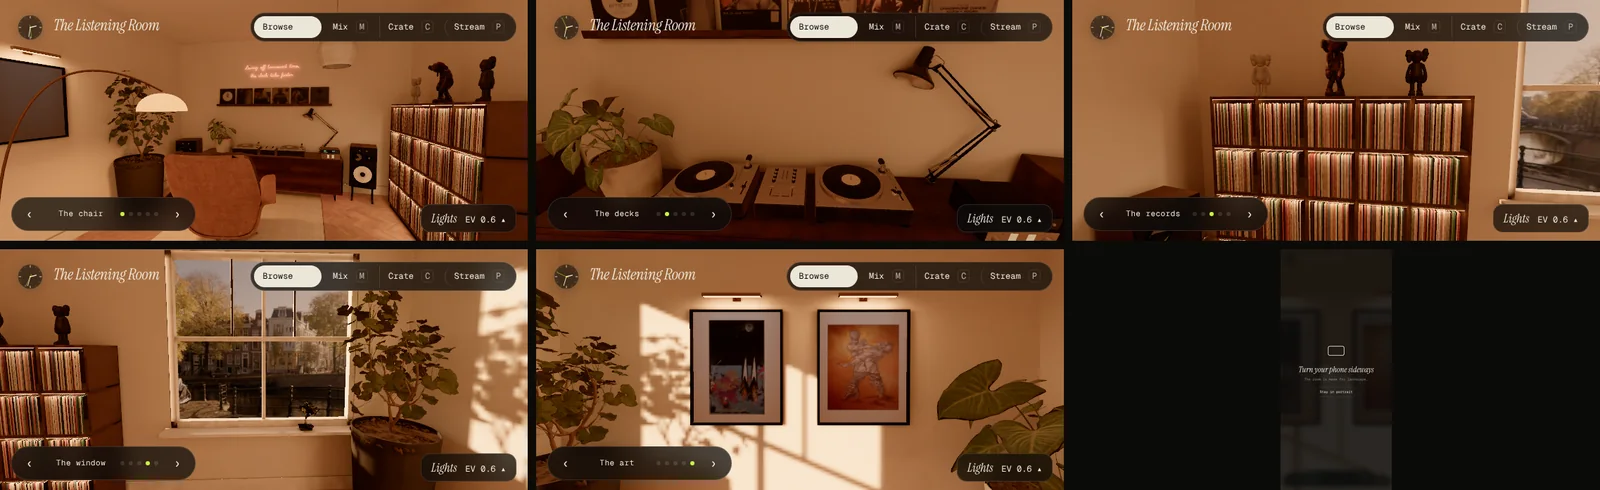
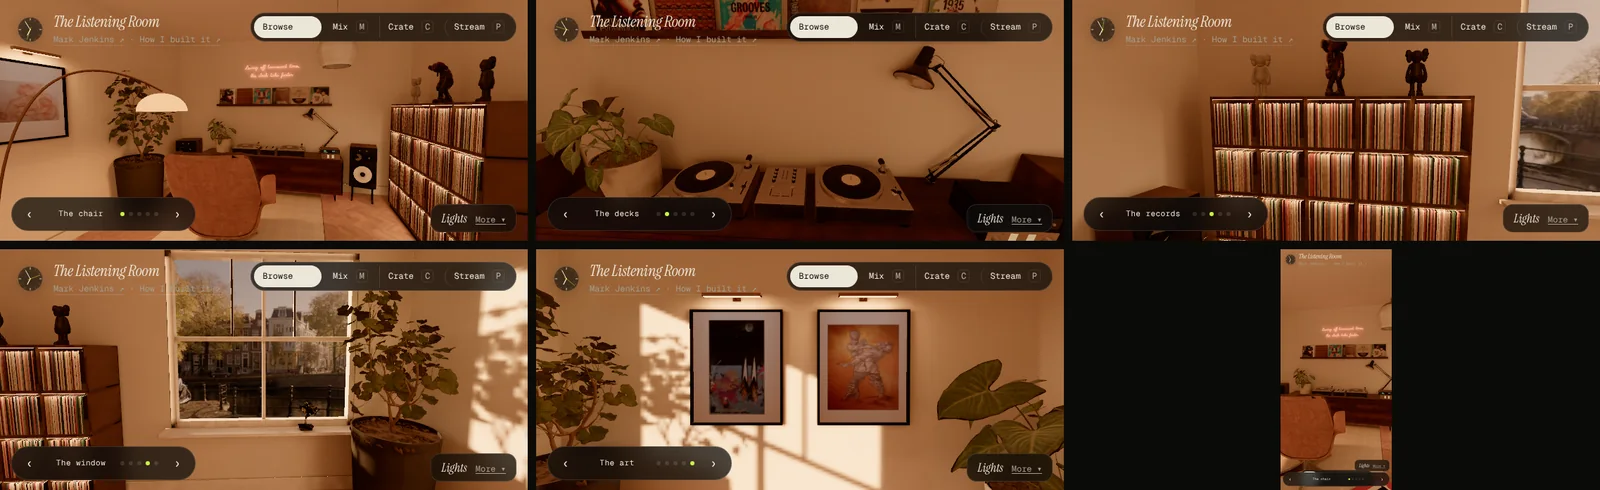
Listening Room post: re-shot UI and phone screenshots (scenes-first lights, play buttons, links, portrait)
Claude-Session: https://claude.ai/code/session_01LommHjWzrAy5NjnEbuJJz3

diff --git a/writing/listening-room.html b/writing/listening-room.html
@@ -155,7 +155,7 @@
             </ul>
             <figure class="post-figure">
                 <div class="grid-3">
-                    <div class="tile"><img src="/images/writing/listening-room/ui-crate.webp" width="1440" height="810" alt="The crate panel open on the left, listing records from the collection with cover art and buttons to load each onto deck A or B." loading="lazy"><span class="tag">The crate</span></div>
+                    <div class="tile"><img src="/images/writing/listening-room/ui-crate.webp" width="1440" height="810" alt="The crate panel open on the left, listing records from the collection with cover art, a play button to start each one straight away, and buttons to load it onto deck A or B." loading="lazy"><span class="tag">The crate</span></div>
                     <div class="tile"><img src="/images/writing/listening-room/ui-mix.webp" width="1440" height="810" alt="Mix mode: the camera locked above the two turntables and the mixer." loading="lazy"><span class="tag">Mix mode</span></div>
                     <div class="tile"><img src="/images/writing/listening-room/ui-streamer.webp" width="1440" height="810" alt="The Streamer panel with a list of classic SoundCloud mixes." loading="lazy"><span class="tag">The streamer</span></div>
                 </div>
@@ -345,8 +345,8 @@ vec3 mixLightmaps(vec2 uv) {
                 <li><strong>The good stuff stays.</strong> Lamps, record sheets and the streamer all work, and so do the decks and scratching. Mix mode just tells you it's best on a big screen, "but go on, have a go".</li>
             </ul>
             <figure class="post-figure">
-                <img src="/images/writing/listening-room/phone-views.webp" width="1600" height="490" alt="Five phone screenshots in landscape: the chair, the decks, the records, the window and the art, each with a viewpoint switcher at the bottom left." loading="lazy">
-                <figcaption>The phone showroom: five framed viewpoints, switched with ‹ ›. Drag still looks around.</figcaption>
+                <img src="/images/writing/listening-room/phone-views.webp" width="1600" height="490" alt="Five phone screenshots in landscape (the chair, the decks, the records, the window and the art, each with a viewpoint switcher at the bottom left) and one in portrait, laid out tall." loading="lazy">
+                <figcaption>The phone showroom: five framed viewpoints, switched with ‹ ›, either way up. Drag still looks around.</figcaption>
             </figure>
             <p>It's the same call I'd make at work: don't port the whole product to every screen. Work out what each screen is for.</p>
 
